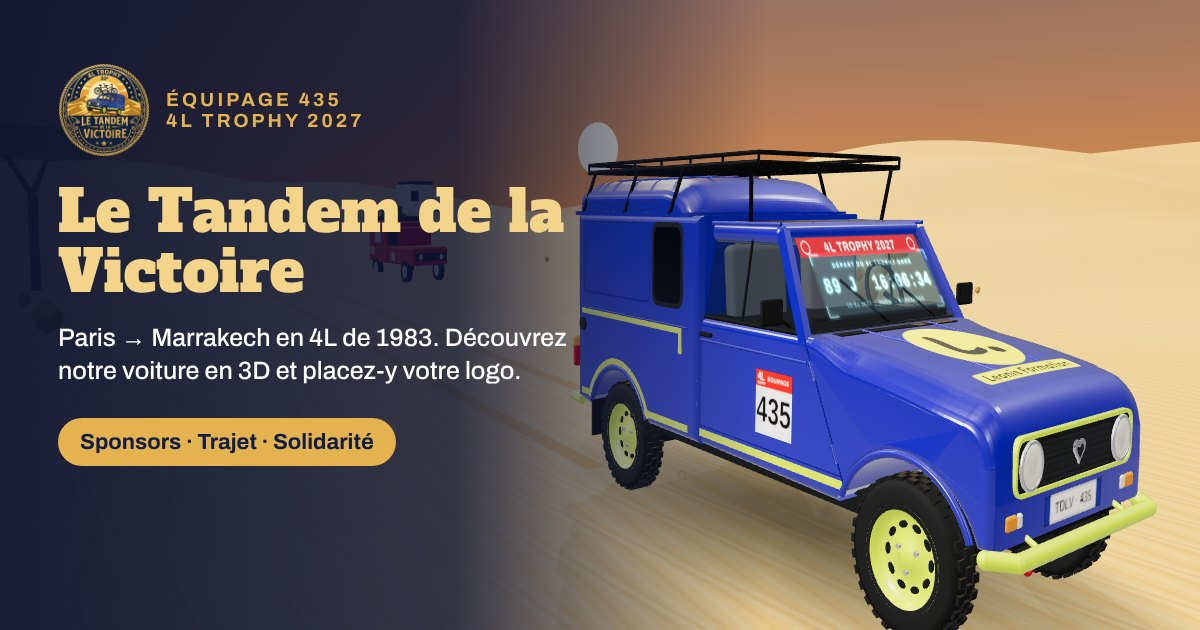
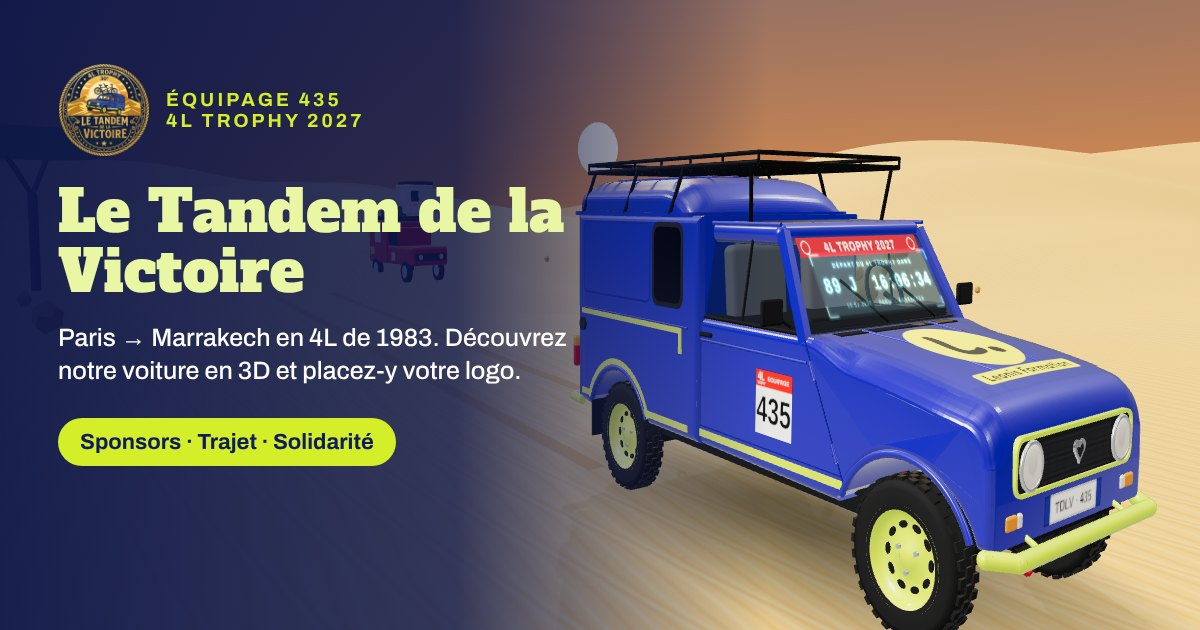
Charte graphique : jaune fluo et bleu de la 4L
Claude-Session: https://claude.ai/code/session_011M4KQmFAWQG2DwehYxLH29

diff --git a/index.html b/index.html
@@ -5,7 +5,7 @@
 <meta name="viewport" content="width=device-width, initial-scale=1">
 <title>La 4L du Tandem de la Victoire en 3D</title>
 <meta name="description" content="Paris → Marrakech en 4L de 1983 : découvrez la 4L de l'équipage 435 du 4L Trophy 2027 en 3D, placez-y votre logo de sponsor et suivez notre aventure solidaire.">
-<meta name="theme-color" content="#121d45">
+<meta name="theme-color" content="#0f1c5e">
 <link rel="icon" type="image/png" href="favicon.png">
 <link rel="apple-touch-icon" href="apple-touch-icon.png">
 <meta property="og:type" content="website">
@@ -26,26 +26,26 @@
 <link href="https://fonts.googleapis.com/css2?family=Alfa+Slab+One&family=Archivo:wght@400;500;600;700&display=swap" rel="stylesheet">
 <style>
   :root{
-    --navy:#121d45; --navy2:#1b2a5c; --gold:#e4b350; --gold2:#f3d48a;
-    --fluo:#d8f03c; --ink:#f4efe3; --muted:#a9b2cf; --line:rgba(228,179,80,.28);
+    --navy:#0f1c5e; --navy2:#1b2f86; --gold:#d4ee2a; --gold2:#e9f6a4;
+    --fluo:#d8f03c; --ink:#f4efe3; --muted:#aab5e0; --line:rgba(212,238,42,.28);
   }
   *{box-sizing:border-box}
-  html,body{margin:0;height:100%;overflow:hidden;background:#0d1530;color:var(--ink);font-family:Archivo,system-ui,sans-serif}
+  html,body{margin:0;height:100%;overflow:hidden;background:#0a1442;color:var(--ink);font-family:Archivo,system-ui,sans-serif}
   #scene{position:fixed;inset:0;display:block;width:100%;height:100%;touch-action:none}
   .shade{position:fixed;left:0;top:0;width:620px;height:120px;z-index:4;pointer-events:none;background:radial-gradient(ellipse at 0 0,rgba(10,16,40,.55),rgba(10,16,40,0) 70%)}
   .brand{position:fixed;left:16px;top:14px;display:flex;align-items:center;gap:12px;z-index:5;pointer-events:none}
   .brand img{width:62px;height:62px;filter:drop-shadow(0 3px 8px rgba(0,0,0,.35))}
   .brand h1{margin:0;font-family:"Alfa Slab One",serif;font-weight:400;font-size:21px;letter-spacing:.3px;color:var(--gold2);text-shadow:0 2px 6px rgba(0,0,0,.45)}
-  .brand h1 #stageTag{display:inline-block;vertical-align:middle;margin-left:10px;font:700 12px Archivo,sans-serif;letter-spacing:.02em;color:#121d45;background:var(--gold);padding:4px 10px;border-radius:999px;text-shadow:none;transform:translateY(-2px)}
+  .brand h1 #stageTag{display:inline-block;vertical-align:middle;margin-left:10px;font:700 12px Archivo,sans-serif;letter-spacing:.02em;color:#0f1c5e;background:var(--gold);padding:4px 10px;border-radius:999px;text-shadow:none;transform:translateY(-2px)}
   .brand h1 #stageTag:empty{display:none}
   .brand p{margin:2px 0 0;font-size:12.5px;color:#fff;opacity:.88;text-shadow:0 1px 4px rgba(0,0,0,.6)}
   .views{position:fixed;left:16px;bottom:16px;display:flex;flex-wrap:wrap;gap:6px;z-index:5;max-width:calc(100% - 420px)}
-  .chip{background:rgba(18,29,69,.82);border:1px solid var(--line);color:var(--ink);padding:7px 11px;border-radius:999px;font:500 12.5px Archivo,sans-serif;cursor:pointer;backdrop-filter:blur(6px)}
+  .chip{background:rgba(15,28,94,.82);border:1px solid var(--line);color:var(--ink);padding:7px 11px;border-radius:999px;font:500 12.5px Archivo,sans-serif;cursor:pointer;backdrop-filter:blur(6px)}
   .chip:hover{border-color:var(--gold)}
   .chip.on{background:var(--gold);color:var(--navy);border-color:var(--gold)}
   .hint{position:fixed;left:50%;top:16px;transform:translateX(-50%);z-index:4;font-size:12px;color:#fff;background:rgba(0,0,0,.35);padding:6px 12px;border-radius:999px;pointer-events:none;transition:opacity .6s}
 
-  .panel{position:fixed;right:14px;top:14px;bottom:14px;width:360px;z-index:6;background:rgba(14,22,54,.9);border:1px solid var(--line);border-radius:14px;display:flex;flex-direction:column;backdrop-filter:blur(10px);box-shadow:0 10px 40px rgba(0,0,0,.35)}
+  .panel{position:fixed;right:14px;top:14px;bottom:14px;width:360px;z-index:6;background:rgba(12,24,82,.9);border:1px solid var(--line);border-radius:14px;display:flex;flex-direction:column;backdrop-filter:blur(10px);box-shadow:0 10px 40px rgba(0,0,0,.35)}
   .tabs{display:flex;border-bottom:1px solid var(--line)}
   .tabs button{flex:1;background:none;border:0;color:var(--muted);padding:13px 6px;font:600 13px Archivo,sans-serif;cursor:pointer;border-bottom:2px solid transparent}
   .tabs button.on{color:var(--gold2);border-bottom-color:var(--gold)}
@@ -56,7 +56,7 @@
   .lead{font-size:13px;line-height:1.45;color:#d9dcea;margin:0 0 10px}
   .zone{display:flex;align-items:center;gap:10px;padding:9px 10px;border:1px solid transparent;border-radius:10px;cursor:pointer;margin-bottom:4px}
   .zone:hover{background:rgba(255,255,255,.04)}
-  .zone.sel{border-color:var(--gold);background:rgba(228,179,80,.08)}
+  .zone.sel{border-color:var(--gold);background:rgba(212,238,42,.08)}
   .zone .dot{width:10px;height:10px;border-radius:50%;background:#59648c;flex:none}
   .zone.taken .dot{background:var(--fluo)}
   .zone .nm{flex:1;font-size:13.5px;font-weight:600}
@@ -71,9 +71,9 @@
   .btn:hover{border-color:var(--gold)}
   .btn.gold{background:var(--gold);color:var(--navy);border-color:var(--gold)}
   .btn.ghost{background:none}
-  input[type=text]{width:100%;background:#0b1230;border:1px solid var(--line);color:var(--ink);border-radius:8px;padding:8px 10px;font:500 13px Archivo,sans-serif}
+  input[type=text]{width:100%;background:#0a1442;border:1px solid var(--line);color:var(--ink);border-radius:8px;padding:8px 10px;font:500 13px Archivo,sans-serif}
   label.ck{display:flex;align-items:center;gap:8px;font-size:13px;margin-top:10px;cursor:pointer}
-  .pack{margin-top:16px;padding:12px;border-radius:12px;background:linear-gradient(135deg,rgba(228,179,80,.16),rgba(228,179,80,.05));border:1px solid var(--line)}
+  .pack{margin-top:16px;padding:12px;border-radius:12px;background:linear-gradient(135deg,rgba(212,238,42,.16),rgba(212,238,42,.05));border:1px solid var(--line)}
   .pack .tot{font-family:"Alfa Slab One",serif;font-size:22px;color:var(--gold2)}
   .pack ul{margin:6px 0 8px;padding-left:18px;font-size:12.5px;color:#d9dcea}
   .swatches{display:flex;gap:8px;flex-wrap:wrap}
@@ -81,7 +81,7 @@
   .sw.on{border-color:#fff;box-shadow:0 0 0 2px var(--gold)}
   .card{border:1px solid var(--line);border-radius:12px;padding:10px 12px;margin-bottom:8px;cursor:pointer}
   .card:hover{border-color:var(--gold)}
-  .card.on{border-color:var(--gold);background:rgba(228,179,80,.08)}
+  .card.on{border-color:var(--gold);background:rgba(212,238,42,.08)}
   .card b{display:block;font-size:13.5px}
   .card span{font-size:12px;color:var(--muted)}
   .rm-c{fill:#3d4a7a;font:700 11px Archivo,sans-serif;letter-spacing:.14em;text-anchor:middle}
@@ -91,9 +91,9 @@
   .rm-d{fill:#c9ef1f;font:600 10px Archivo,sans-serif}
   .rm-stop{cursor:pointer}
   .rm-way{pointer-events:none}
-  .rm-way circle{fill:#e4b350;stroke:#0a1734;stroke-width:1.5}
+  .rm-way circle{fill:#d4ee2a;stroke:#0a1442;stroke-width:1.5}
   .rm-way text{fill:#a9b2cf;font:600 11px Archivo,sans-serif}
-  .rm-stop circle{fill:#0b1230;stroke:#e4b350;stroke-width:2.5}
+  .rm-stop circle{fill:#0a1442;stroke:#d4ee2a;stroke-width:2.5}
   .rm-stop text{fill:#f4efe3;font:600 12px Archivo,sans-serif}
   .rm-stop.on circle{fill:#c9ef1f;stroke:#c9ef1f}
   .rm-stop.on text{fill:#c9ef1f}
@@ -106,7 +106,7 @@
   .qbtn small{display:block;font-size:11.5px;font-weight:600;opacity:.8}
   body.mapBig .quick{display:none}
   .qbtn2{background:#f4efe3}
-  #solidaire,#crew{position:fixed;inset:0;z-index:25;overflow-y:auto;display:none;background:linear-gradient(180deg,#0d1636,#121d45 40%,#0d1636)}
+  #solidaire,#crew{position:fixed;inset:0;z-index:25;overflow-y:auto;display:none;background:linear-gradient(180deg,#0b1648,#0f1c5e 40%,#0b1648)}
   body.solOpen #solidaire,body.crewOpen #crew{display:block}
   .cr-photo{margin:6px 0 0;border-radius:18px;overflow:hidden;border:1px solid var(--line);box-shadow:0 18px 50px rgba(0,0,0,.4)}
   .cr-photo img{display:block;width:100%;height:auto;max-height:470px;object-fit:cover;object-position:50% 45%}
@@ -116,7 +116,7 @@
   .cr-card h2{font:400 34px "Alfa Slab One",serif;color:var(--gold2);margin:0}
   .cr-meta{color:#e2e5f0;font-size:14.5px;margin:4px 0 12px}
   .cr-roles{display:flex;flex-wrap:wrap;gap:6px;margin-bottom:14px}
-  .cr-roles span{font-size:12.5px;font-weight:700;padding:5px 10px;border-radius:999px;background:rgba(228,179,80,.14);color:var(--gold2);border:1px solid rgba(228,179,80,.35)}
+  .cr-roles span{font-size:12.5px;font-weight:700;padding:5px 10px;border-radius:999px;background:rgba(212,238,42,.14);color:var(--gold2);border:1px solid rgba(212,238,42,.35)}
   .cr-roles span.main{background:var(--gold);color:var(--navy);border-color:var(--gold)}
   .cr-fun{margin:0;font-size:14px;line-height:1.5;color:#d9dcea;border-left:3px solid var(--gold);padding-left:11px}
   .cr-fun b{color:#fff;font-weight:700;display:block;font-size:11.5px;letter-spacing:.1em;text-transform:uppercase;margin-bottom:2px}
@@ -141,7 +141,7 @@
   .so-card h2{font-size:19px;margin:0 0 8px}
   .so-card p{margin:0;color:#d9dcea;line-height:1.55;font-size:14px}
   .so-stats{display:grid;grid-template-columns:repeat(4,1fr);gap:10px;margin:22px 0 6px}
-  .so-stats div{border-radius:14px;padding:14px;background:rgba(228,179,80,.08);border:1px solid var(--line);text-align:center}
+  .so-stats div{border-radius:14px;padding:14px;background:rgba(212,238,42,.08);border:1px solid var(--line);text-align:center}
   .so-stats b{display:block;font:400 30px "Alfa Slab One",serif;color:var(--gold2)}
   .so-stats span{font-size:12px;color:var(--muted);line-height:1.35;display:block;margin-top:4px}
   .so-h{font-size:22px;margin:30px 0 12px}
@@ -152,20 +152,20 @@
   .so-hl{color:#fff !important;font-weight:600;border-left:3px solid var(--c);padding-left:10px;margin-bottom:0 !important}
   .so-eco ul{margin:0;padding-left:18px;color:#d9dcea;font-size:14px;line-height:1.6}
   .so-eco li{margin-bottom:6px}
-  .so-end{margin-top:30px;text-align:center;border:1px solid var(--line);border-radius:18px;padding:26px 22px;background:linear-gradient(135deg,rgba(228,179,80,.14),rgba(228,179,80,.03))}
+  .so-end{margin-top:30px;text-align:center;border:1px solid var(--line);border-radius:18px;padding:26px 22px;background:linear-gradient(135deg,rgba(212,238,42,.14),rgba(212,238,42,.03))}
   .so-end h2{font:400 30px "Alfa Slab One",serif;color:var(--gold2);margin:0 0 8px}
   .so-end p{color:#e2e5f0;font-size:15px;line-height:1.55;max-width:640px;margin:0 auto}
   .so-src{font-size:11px !important;color:var(--muted) !important;margin-top:16px !important}
   @media (max-width:820px){ .so-hero h1{font-size:32px} .so-two,.so-partners{grid-template-columns:1fr} .so-stats{grid-template-columns:1fr 1fr} }
   .bm-intro{font-size:13.5px;line-height:1.5;color:#e2e5f0;margin:0 0 12px}
   .bm-stats{display:grid;grid-template-columns:1fr 1fr;gap:8px}
-  .bm-stats div{border:1px solid var(--line);border-radius:12px;padding:10px 12px;background:rgba(228,179,80,.06)}
+  .bm-stats div{border:1px solid var(--line);border-radius:12px;padding:10px 12px;background:rgba(212,238,42,.06)}
   .bm-stats b{display:block;font:400 22px "Alfa Slab One",serif;color:var(--gold2)}
   .bm-stats span{font-size:11.5px;color:var(--muted);line-height:1.3;display:block;margin-top:2px}
   .bm-src{font-size:11px;color:var(--muted);margin:10px 0 0}
   .mapWrap{position:relative}
-  .mapOpen{position:absolute;right:8px;top:8px;padding:5px 9px;font-size:12px;background:rgba(18,29,69,.9)}
-  #bigMap{position:fixed;inset:0;z-index:15;background:radial-gradient(ellipse at 30% 20%,#14225a,#070d24 70%);display:none;flex-direction:column;padding:18px 22px 16px}
+  .mapOpen{position:absolute;right:8px;top:8px;padding:5px 9px;font-size:12px;background:rgba(15,28,94,.9)}
+  #bigMap{position:fixed;inset:0;z-index:15;background:radial-gradient(ellipse at 30% 20%,#1a2c80,#060c2e 70%);display:none;flex-direction:column;padding:18px 22px 16px}
   body.mapBig #bigMap{display:flex}
   body.mapBig .panel, body.mapBig .views, body.mapBig .hint{display:none}
   body.mapBig .brand, body.mapBig .shade{display:none}
@@ -198,7 +198,7 @@
   .modal p{font-size:13px;color:#d9dcea}
   .toast{position:fixed;left:50%;bottom:22px;transform:translateX(-50%) translateY(30px);background:var(--gold);color:var(--navy);font-weight:700;font-size:13px;padding:9px 14px;border-radius:999px;z-index:30;opacity:0;transition:.3s;pointer-events:none}
   .toast.on{opacity:1;transform:translateX(-50%) translateY(0)}
-  .loading{position:fixed;inset:0;display:flex;align-items:center;justify-content:center;z-index:40;background:#0d1530;font-family:"Alfa Slab One",serif;color:var(--gold2);transition:opacity .5s}
+  .loading{position:fixed;inset:0;display:flex;align-items:center;justify-content:center;z-index:40;background:#0a1442;font-family:"Alfa Slab One",serif;color:var(--gold2);transition:opacity .5s}
   @media (max-width:820px){
     .panel{left:8px;right:8px;top:auto;bottom:8px;width:auto;height:46vh}
     .views{bottom:calc(46vh + 14px);max-width:none;right:0;left:0;flex-wrap:nowrap;overflow-x:auto;padding:0 8px;scrollbar-width:none}
@@ -1838,8 +1838,8 @@ function makeFacade(){
 }
 function makeBanner(){
   const c = document.createElement('canvas'); c.width = 1024; c.height = 128; const x = c.getContext('2d');
-  x.fillStyle = '#121d45'; x.fillRect(0,0,1024,128);
-  x.fillStyle = '#f3d48a'; x.font = '400 64px "Alfa Slab One", serif'; x.textAlign = 'center'; x.textBaseline = 'middle';
+  x.fillStyle = '#0f1c5e'; x.fillRect(0,0,1024,128);
+  x.fillStyle = '#e9f6a4'; x.font = '400 64px "Alfa Slab One", serif'; x.textAlign = 'center'; x.textBaseline = 'middle';
   x.fillText('DÉPART · 4L TROPHY 2027', 512, 68);
   return c;
 }
